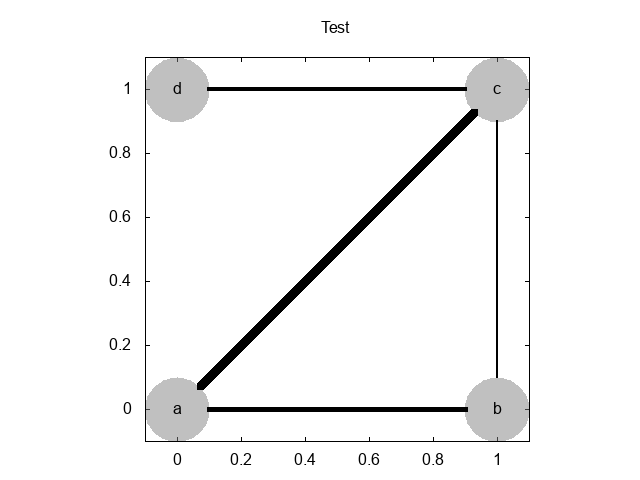
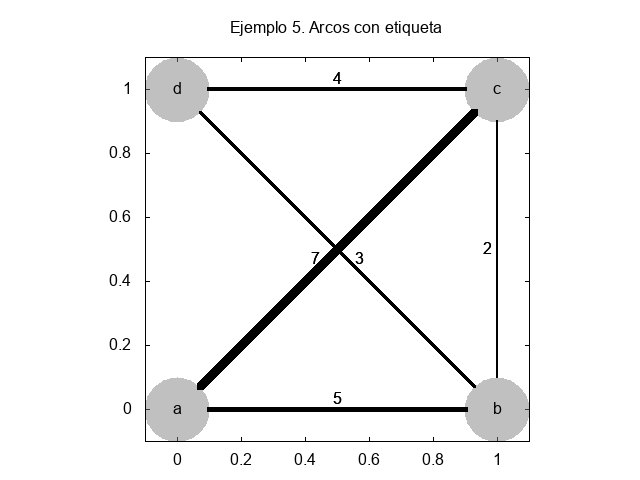
Reorganizadas carpetas de reportes. Agregados algoritmos; funcionales.

diff --git a/fuente/Grafo.py b/fuente/Grafo.py
@@ -94,49 +94,50 @@ class Grafo:
                             d[(desde, hasta)] = c # mejora al camino actual
         return d
 
-    def Camino(self, s, t): # construcción de un camino aumentante
+    def Camino(self, s, t, f): # construcción de un camino aumentante
         # s : origen
         # t : destino
-        cola = [s]
+        cola = [s] # Se almacena el nodo inicial
         usados = set()
         camino = dict()
-        while len(cola) > 0:
-            u = cola.pop(0)
-            usados.add(u)
-            for (w, v) in self.pesos:
-                if w == u and v not in cola and v not in usados:
-                    actual = self.vecinos.get((u, v), 0)
-                    dif = self.pesos[(u, v)] - actual
-                    if dif > 0:
-                        cola.append(v)
-                        camino[v] = (u, dif)
-        if t in usados:
-            return camino
-        else: # no se alcanzó
-            return None
+        while len(cola) > 0: # Mientras haya nodos por recorrer
+            u = cola.pop(0) # Se obtiene el nodo por recorrer y se almacena como el nodo u (actual)
+            usados.add(u) # Se agrega a usados (evita que se recorra en dos sentidos si fuera dirigido)
+            for (w, v) in self.pesos: # Cada peso de cada arista
+                if w == u and v not in cola and v not in usados: # Del nodo actual, si su vecino no está en la cola ni ha sido recorrido (usado) ; ¿se pueden poner sólo los vecinos de u?;  ¿se puede quitar v not in cola?
+                    pesoActual = f.get((u, v), 0) # Del flujo (grafo reducido) se obtiene el peso que hay entre el nodo actual y su vecino
+                    dif = self.pesos[(u, v)] - pesoActual # Diferencia entre el peso del arco en el Grafo y del peso en el arco en el grafo reducido
+                    if dif > 0: # Si se permite el paso del flujo
+                        cola.append(v) # Se agrega el vecino a la cola (se vuelve el siguiente nodo a recorrer)
+                        camino[v] = (u, dif) # Se agrega como camino que llega a v del nodo u (actual, la diferencia de pesos del Grafo al Grafo reducido)
+        # Si no se permite el paso del flujo a otro nodo
+        if t in usados: # Y si se ha llegado al final del camino de s (nodo inicial) a t (nodo final)
+            return camino # Se regresa ese camino
+        else: # Si no se alcanzó dicho nodo
+            return None # No se regresa nada
 
-    def Ford_Fulkerson(self, s, t): # algoritmo de Ford y Fulkerson
-        if s == t:
-            return 0
+    def Ford_Fulkerson(self, s, t):
+        if s == t: # Si el nodo inicial es el nodo destino
+            return 0 # el peso máximo es 0
         maximo = 0
-        f = dict()
+        flujo = dict()
         while True:
-            aum = self.Camino(s, t)
-            if aum is None:
-                break # ya no hay
-            incr = min(aum.values(), key = (lambda k: k[1]))[1]
+            aum = self.Camino(s, t, flujo) # Regresa todos los caminos que van de s a t
+            if aum is None: # Si no regresa nada
+                break # Ya no hay caminos y se acaba el ciclo
+            incr = min(aum.values(), key = (lambda k: k[1]))[1] # De todos los pesos en todos los caminos de s a t, se elige el menor
             u = t
             while u in aum:
                 v = aum[u][0]
-                actual = self.vecinos.get((v, u), 0) # cero si no hay
-                inverso = self.vecinos.get((u, v), 0)
-                self.vecinos[(v, u)] = actual + incr
-                self.vecinos[(u, v)] = inverso - incr
+                actual = flujo.get((v, u), 0) # cero si no hay
+                inverso = flujo.get((u, v), 0)
+                flujo[(v, u)] = actual + incr
+                flujo[(u, v)] = inverso - incr
                 u = v
             maximo += incr
         return maximo
 
-    def DibujarGrafo(self, titulo = "", eps = False):
+    def DibujarGrafo(self, titulo = "", eps = False, mostrarPesos = False):
         self.nombre = str(self.nombre)
         with open(self.nombre + ".gnu", "w") as f:
             if eps:
@@ -184,10 +185,34 @@ class Grafo:
 
                     print("set arrow " + str(i) +
                         " from " + str(x1) + "," + str(y1) + " to " + str(x2) + "," + str(y2) + " linewidth " + str(self.pesos[(n, v)]), end = "", file = f) # https://stackoverflow.com/questions/5598181/multiple-prints-on-the-same-line
+
                     if self.dirigido:
                         print("", file = f)
                     else:
                         print(" nohead", file = f)
+                        if mostrarPesos:
+                            pmX = (x1 + x2) / 2
+                            pmY = (y1 + y2) / 2
+                            deltaX = x1 - x2
+                            m = 0
+                            if deltaX == 0:
+                                m = 1000
+                            else:
+                                m = (y1 - y2) / deltaX
+                            xLabel = 0
+                            yLabel = 0
+                            if m == 0:
+                                yLabel = 0.03;
+                            elif m == 1000:
+                                xLabel = -0.03
+                            elif m > 0:
+                                xLabel = -0.07
+                                yLabel = -0.03
+                            elif m < 0:
+                                xLabel = 0.07
+                                yLabel = -0.03
+                            print("set label '" + str(self.pesos[(n, v)]) + "' at " + str(pmX + xLabel) + "," + str(pmY + yLabel) + " left offset char -" + str(0.4 * len(str(self.pesos[(n, v)]))) + ",0", file = f)
+
                     i = i + 1
 
             print("set style fill transparent solid 0.5 noborder", file = f)

diff --git a/ejemplos/05FloydWarshall/main.py b/ejemplos/05FloydWarshall/main.py
@@ -1,5 +1,5 @@
 # Documentación de modificaciones a los algoritmos de la profe
-# Ejempos para revisar si funciona el algoritmo correcto
+# Ejemplos para revisar si funciona el algoritmo correcto
 # Revisar si funciona con grafos dirigidos
 # Crear grafos de diferentes tamaños y correr los algoritmos para graficar los tiempos que les toma a los algoritmos correrse; graficar con diagramas caja bigote y violín; y error bars (x, y, largo) y candlesticks (parte baja, alta, cuartil, cuartil, meidana)
 # Revisar con pruebas estadísticas si los datos son normalmente distribuidos
@@ -36,14 +36,15 @@ G.ConectarNodos(a, b, 5)
 G.ConectarNodos(a, c, 7)
 G.ConectarNodos(b, c, 2)
 G.ConectarNodos(c, d, 4)
+G.ConectarNodos(b, d, 3)
 
 #print(G.vecinos[a])
 #print(G.nodos)
 #print(G.pesos)
 
-G.DibujarGrafo("Test")
+G.DibujarGrafo("Ejemplo 5. Arcos con etiqueta", mostrarPesos = True)
 
-for (k, val) in G.Floyd_Warshall().items():
+for (k, val) in G.Floyd_Warshall().items(): # toma el camino más corto entre todos los nodos
     n = k[0]
     v = k[1]
     print(n.id, v.id, val)

diff --git a/ejemplos/04ModificarNodos/main.py b/ejemplos/04ModificarNodos/main.py
@@ -50,6 +50,6 @@ G.nombre = "noDirigido"
 n = G.NodoConId(11)
 G.ModificarPesos(n, 5)
 
-G.DibujarGrafo("Ejemplo 4.2 Manipulación de nodos en grafo no dirigido", True)
+G.DibujarGrafo("Ejemplo 4.2 Manipulación de nodos en grafo no dirigido", eps = True)
 
 G.DibujarGrafo("Ejemplo 4.2 Manipulación de nodos en grafo no dirigido")

diff --git a/README.md b/README.md
@@ -230,17 +230,21 @@ G.DibujarGrafo("Título") # Imagen de un grafo con encabezado "Título"
 Adicionalmente, se puede generar una imagen `EPS` del grafo agregándo un parámetro adicional a la función:
 
 ```python
-G.DibujarGrafo("Título", True)
+G.DibujarGrafo("Título", eps = True)
 ```
 
+Como parámetro opcional para grafos no dirigidos, podría agregarse un parámetro para imprimir los pesos de los arcos entre nodos:
+
+```python
+G.DibujarGrafo("Título", mostrarPesos = True)
+```
+
+Una muestra de esta funcionalidad se aprecia en la siguiente figura:
+
+![](ejemplos/05FloydWarshall/grafo.png?raw=true)
+
 ## Tareas pendientes
-- [x] ~~Arcos simples~~
-- [x] ~~Configuración de nodos~~
-- [x] ~~Configuración de grafos~~
-- [x] ~~Completar documentación de arcos~~
-- [x] ~~Eliminar vecindades~~
-- [x] ~~Modificar pesos de vecindades~~
-- [x] ~~Agregar imágenes en formato `EPS`~~
+- [ ] Arcos de diferente grosor y color
 - [ ] Guardar grafos en archivos de texto
 - [ ] Agregar ejemplo de asignación de horarios
 - [ ] Nodos sólo con contorno y grosor de contorno

diff --git a/ejemplos/05FloydWarshall/readme.md b/ejemplos/05FloydWarshall/readme.md
@@ -1,0 +1,1 @@
+# Ejemplo 5: Algoritmos de flujo
